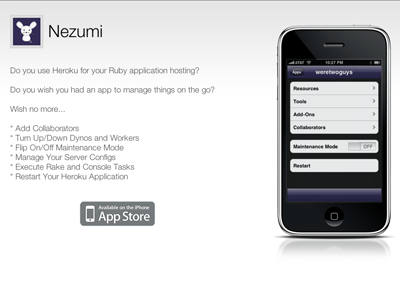
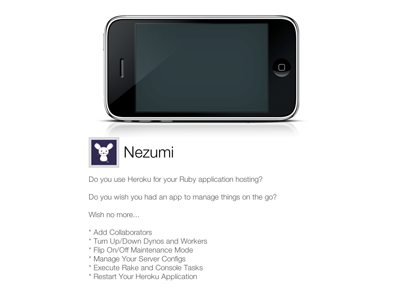
Updated sideways screenshots.  Showing big screenshot on app show page

diff --git a/public/themes/sideways/stylesheets/app.css b/public/themes/sideways/stylesheets/app.css
@@ -5,12 +5,12 @@ body {
   font-size: 14px;
 }
 a { color: #75588a; }
-#insides { width: 800px; margin: 30px auto; position: relative; }
+#insides { width: 450px; margin: 30px auto; position: relative; }
 #logo { font-size: 2.5em; color: #000; margin: 0 0 30px; height: 55px; }
 #logo .icon { border: 1px solid #ccc; padding: 5px; background-color: #ddd; width: 57px; height: 57px; float: left; }
 #logo img { width: 57px; height: 57px; }
 #logo .name { float: left; margin-left: 10px; line-height: 65px; vertical-align: middle; }
-#description { width: 800px; overflow: hidden; font-size: 1.2em; margin: 20px 0; }
+#description { font-size: 1.2em; margin: 20px 0; }
 #screenshots {
   margin: 0 auto;
   width: 514px;
